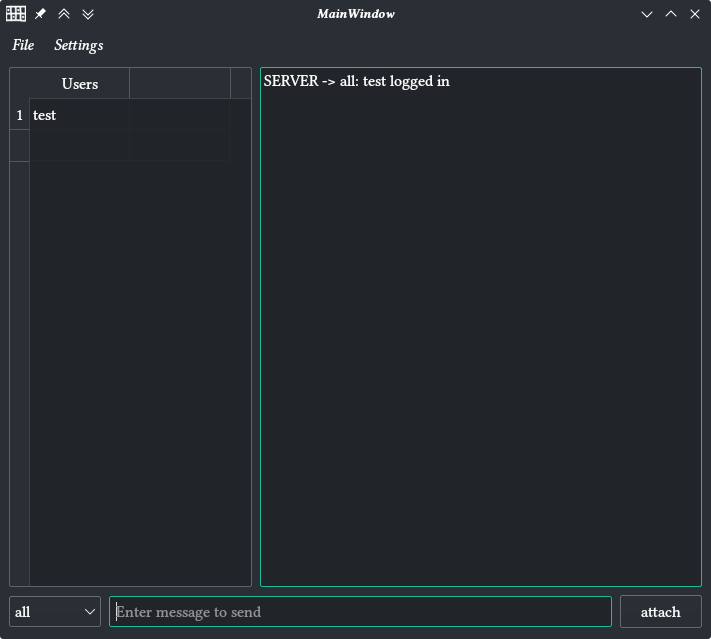
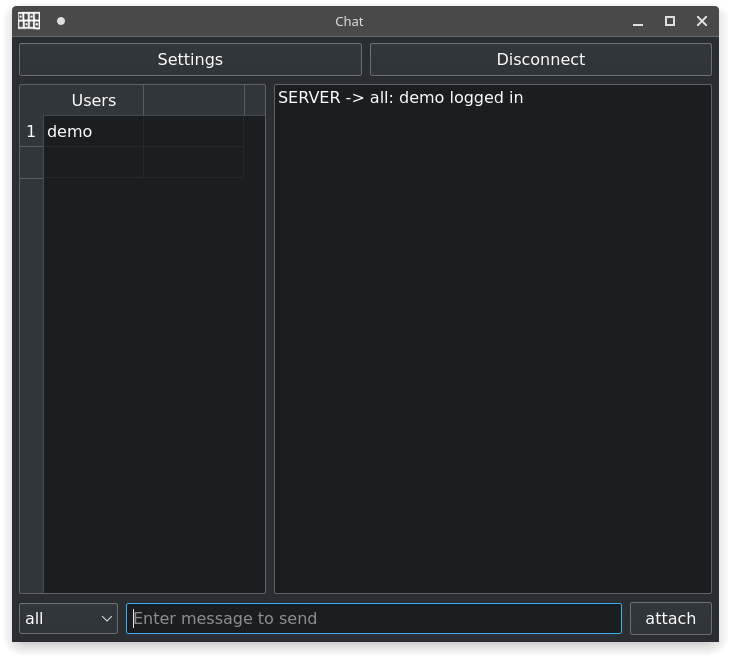
Update User Manual

Changed region(s): [[0.0, 0.0, 1.0, 1.0]]

diff --git a/description/manual.tex b/description/manual.tex
@@ -1,4 +1,4 @@
-\documentclass[a4paper,ngerman,headsepline]{scrreprt}
+\documentclass[a4paper,ngerman,headsepline, titlepage=firstiscover]{scrartcl}
 \KOMAoptions{fontsize=12pt}
 \KOMAoptions{headings=standardclasses}
 \KOMAoptions{DIV=13}
@@ -31,6 +31,7 @@
 \usepackage[dvipsnames]{xcolor}
 \usepackage{pgf,tikz}
 \usepackage{siunitx}
+\usepackage{listings}
 \sisetup{locale=DE,per-mode=symbol,output-decimal-marker={,},detect-weight}
 
 % PAGE LAYOUT
@@ -43,15 +44,14 @@
 \rohead{Alexander Lessacher, Laurenz Preindl, Simon Graber}
 \cohead{}
 \rofoot{Seite \thepage\ von \pageref{LastPage}}
-\cofoot{\raisebox{-2cm}{Vom \todaysname, dem \today}}
 
 \newcommand*\diff{\mathop{}\!\mathrm{d}}
 
 % BIBLIOGRAPHIE
 %\usepackage[imakeidx]{xindex} % oldindex
 \usepackage{makeidx}\makeindex
-\usepackage[backend=biber,style=authoryear,natbib=true,hyperref=true]{biblatex}
-\addbibresource{/home/ln/Dokumente/tex/literatur/main.bib}
+%\usepackage[backend=biber,style=authoryear,natbib=true,hyperref=true]{biblatex}
+%\addbibresource{/home/ln/Dokumente/tex/literatur/main.bib}
 
 \usepackage[hidelinks]{hyperref}
 \usepackage{marvosym}
@@ -64,6 +64,46 @@
   pdftitle={Dokumentation htl-tk-chat},pdfsubject={Software-Engineering}%
 }
 
+\hypersetup{%
+    colorlinks,
+    citecolor = {black!65!blue},
+    filecolor = black,
+    linkcolor = {black!50!blue},
+    urlcolor = blue
+}
+
+\definecolor{backcolour}{rgb}{0.95,0.95,0.92}
+\definecolor{codegray}{rgb}{0.5,0.5,0.5}
+\definecolor{background}{HTML}{EEEEEE}
+\definecolor{delim}{RGB}{20,105,176}
+\colorlet{numb}{magenta!60!black}
+\colorlet{punct}{red!60!black}
+\lstdefinestyle{simple}{
+    backgroundcolor=\color{backcolour},
+    commentstyle=\color{green},
+    keywordstyle=\color{red},
+    numberstyle=\tiny\color{codegray},
+    stringstyle=\color{purple},
+    basicstyle=\ttfamily,
+    breakatwhitespace=false,
+    breaklines=true,
+    captionpos=b,
+    keepspaces=true,
+    numbers=none,
+    showspaces=false,
+    showstringspaces=false,
+    showtabs=false,
+    tabsize=2,    
+    literate=%
+  {Ö}{{\"O}}1
+  {Ä}{{\"A}}1
+  {Ü}{{\"U}}1
+  {ß}{{\ss}}1
+  {ü}{{\"u}}1
+  {ä}{{\"a}}1
+  {ö}{{\"o}}1
+}
+
 \begin{document}
 
 %\subject{}
@@ -73,42 +113,198 @@
 
 \maketitle
 \tableofcontents
+\newpage
 
 \section{Einführung}
-Der \texttt{htl-tk-chat} ist eine Chat-Applikation mit Qt-User-Interface. Sie können sich damit mit einem Client zu einem Server verbinden und mit den Teilnehmern dort Nachrichten austauschen. Standardmäßig geschieht dies verschlüsselt (SSL/TLS), ihre Nachrichten sind also auf dem Weg zu den anderen Teilhemern \enquote{sicher}.
+Der \texttt{htl-tk-chat} ist eine Chat-Applikation mit Qt-User-Interface. Sie können sich damit mit einem Client zu einem Server verbinden und mit den Teilnehmern dort Nachrichten austauschen. Standardmäßig geschieht dies verschlüsselt (SSL/TLS), ihre Nachrichten sind also auf dem Weg zu den anderen Teilnehmern \enquote{sicher}. Bilder der Applikation in dieser Anleitung wurden mit einem Breeze Dark Theme aufgenommen. Darstellung bei Ihnen kann sich unterscheiden.
 
-\section{Start}
+\section{Abhängigkeiten}
+Der Client hat folgende Abhängigkeiten:
+\begin{itemize}
+ \item Python >= 3.6
+ \item PyQt5 >= 5.0
+ \item python-msgpack
+\end{itemize}
+
+\noindent Der Server hat folgende Abhängigkeiten:
+\begin{itemize}
+ \item Python >= 3.6
+ \item python-msgpack
+\end{itemize}
+
+\subsection{Installation}
+\subsubsection{Python}
+\paragraph{Windows} In Windows installieren Python Sie entweder über die \href{https://python.org}{Python} Webseite oder über winget mit folgendem Befehl:
+
+\begin{lstlisting}[style=simple]
+ winget install -e --id Python.Python
+\end{lstlisting}
+
+\paragraph{Debian:} In Debian basierenden Distributionen installieren Sie python über apt mit folgendem Befehl:
+
+\begin{lstlisting}[style=simple, language=Bash]
+ sudo apt install python3
+\end{lstlisting}
+
+\paragraph{ArchLinux:} In ArchLinux basierenden Distributionen installieren Sie python über pacman mit folgendem Befehl:
+
+\begin{lstlisting}[style=simple, language=Bash]
+ sudo pacman -Sy python
+\end{lstlisting}
+
+\subsubsection{PyQt5}
+\paragraph{Windows:} In Windows installieren Sie PyQt5 mit Hilfe von pip nachdem Sie python installiert haben, mit folgendem Befehl:
+\begin{lstlisting}[style=simple]
+ pip install PyQt5
+\end{lstlisting}
+
+\paragraph{Debian:} In Debian basierenden Distributionen installieren Sie PyQt5 auch mit Hilfe von pip mit folgendem Befehl.
+\begin{lstlisting}[style=simple]
+ pip install PyQt5
+\end{lstlisting}
+
+\paragraph{ArchLinux:} In ArchLinux basierenden Distributionen können Sie PyQt5 über den Standard Weg mittels pacman installieren. Geben Sie dafür einfach folgenden Befehl ein:
+\begin{lstlisting}[style=simple]
+ sudo pacman -Sy python-pyqt5
+\end{lstlisting}
+
+\subsubsection{python-msgpack}
+\paragraph{Windows:} In Windows installieren Sie python-msgpack mit Hilfe von pip nachdem Sie python installiert haben, mit folgendem Befehl:
+\begin{lstlisting}[style=simple]
+ pip install msgpack
+\end{lstlisting}
+
+\paragraph{Debian:} In Debian basierenden Distributionen installieren Sie python-msgpack auch mit Hilfe von pip mit folgendem Befehl.
+\begin{lstlisting}[style=simple]
+ pip install msgpack
+\end{lstlisting}
+
+\paragraph{ArchLinux:} In ArchLinux basierenden Distributionen können Sie python-msgpack über den Standard Weg mittels pacman installieren. Geben Sie dafür einfach folgenden Befehl ein:
+\begin{lstlisting}[style=simple]
+ sudo pacman -Sy python-msgpack
+\end{lstlisting}
+\newpage
+\section{Client}
+\subsection{Start}
 Es wird davon ausgegangen, dass Sie die Applikation als Client nutzen und ein bestehender Server bekannt und erreichbar ist.\\
-Zum Starten des Programms rufen sie unter \texttt{frontend/client.py} auf. Hierzu können sie die Date direkt aufrufen (\texttt{./frontend/client.py} oder dem Programm \texttt{python3} als Parameter übergeben. Hierzu verwenden sie den Befehl \texttt{python3 frontend/client.py}.
+Zum Starten des Programms rufen sie unter \texttt{frontend/client.py} auf. Hierzu können sie die Datei direkt aufrufen (\texttt{./frontend/client.py}) oder dem Programm \texttt{python3} als Parameter übergeben. Hierzu verwenden sie den Befehl \texttt{python3 frontend/client.py}.
 
-\begin{figure}[ht]\centering
+\begin{figure}[!h]\centering
 \includegraphics[width=\textwidth]{images/empty}
-\caption{Nun öffnet sich das Hauptfenster des Chats}
+\caption{Hauptfenster nach dem Start}
 \end{figure}
 
-\begin{figure}[ht]\centering
+\newpage
+
+\subsection{Konfiguration}
+Wenn Sie noch keine Konfiguration haben öffnet sich beim ersten Start automatisch ein Einstellungsfenster in dem Sie eine Konfiguration einstellen können. Die Felder von Links nach Rechts sind: Serveradresse (Die IP Adresse oder Hostname des Servers), Port (Port des Servers Standard: 9999), Username (Der Name mit dem Sie im Chat angezeigt werden). Es gibt ebenfalls eine Checkbox für SSL. Wenn die Checkbox angeklickt ist versucht der Client eine verschlüsselte Verbindung zum Server aufzubauen. Mit dem Button \enquote{Save Profile} können Sie Ihre Konfiguration speichern. Mit \enquote{Delete Profile} können Sie Ihre Konfiguration auch wieder löschen. \enquote{Load Profile} lädt die gespeicherte Konfiguration in die entsprechenden Felder.
+\begin{figure}[!h]\centering
 \includegraphics[width=\textwidth]{images/settings}
-\caption{Zusätzlich öffnet sich das Einstellungsfenster\label{fig:settings}}
+\caption{Einstellungsfenster\label{fig:settings}}
 \end{figure}\clearpage
-Wie in Abb. \ref{fig:settings} gezeigt, müssen Sie eine gültige Adresse eines \texttt{htl-tk-chat}-Servers in das dafür vorgesehene Feld eintragen. Verwenden Sie einen Benutzernamen Ihrer Wahl. Wenn der Server Ihrer Wahl SSL unterstützt, setzen sie die Checkbox \enquote{Use SSL}.
-Speichern Sie Ihre Daten mittels drücken des Buttons \enquote{Save Profile}. Um sich zum Server zu verbinden drücken Sie \enquote{Connect}. Nun können Sie das Einstellungsfenster schließen und zum Hauptfenster zurükkehren. (Siehe Abb. \ref{fig:alone})
+\newpage
 
-\begin{figure}[ht]\centering
+\subsection{Nachrichten  Schreiben}
+\noindent Nachdem Sie eingeloggt sind sehen Sie eine Nachricht vom Server. Links sehen Sie auch die aktuell verbunden Benutzer wie man in Abbildung \ref{fig:conversation} gut sehen kann. Um Nachrichten zu verfassen, tippen Sie den Text in die Eingabezeile am unteren Rand des Fensters ein und drücken die Enter-Taste. Um private Nachrichten zu versenden wählen Sie den Benutzer, an den Sie die Nachricht senden wollen. unten Links in der Combo Box aus.
+
+\begin{figure}[!h]\centering
 \includegraphics[width=\textwidth]{images/alone}
-\caption{Der Chat-Client ist nun verbunden, Sie können nun Nachrichten empfangen und versenden \label{fig:alone}}
+\caption{Login Nachricht \label{fig:alone}}
 \end{figure}
+\newpage
 
-Um Nachrichten zu verfassen, tippen Sie den Text in die Eingabezeile am unteren Rand des Fensters ein und drücken die Enter-Taste.% \LKeyEnter ging nicht ...
-
-\begin{figure}[ht]\centering
+\begin{figure}[!h]\centering
 \includegraphics[width=\textwidth]{images/conversation}
-\caption{Nun können Sie im DropDown-Menü in der linken unteren Ecke den Empfänger Ihrer Nachricht auswählen und mit Enter versenden. Empfangene Nachrichten werden Ihnen in der rechten Hälfte des Fensters angezeigt.\label{fig:conversation}}
+\caption{Konversation\label{fig:conversation}}
 \end{figure}
+\newpage
 
+\subsection{Bilder}
 
-\begin{figure}[ht]\centering
+Der \texttt{htl-tk-chat} unterstützt Bilder im Chat. Die Bilder werden als Thumbnail mit einer maximal Größen von 300 mal 300 Pixel angezeigt. Um ein Bild zu versenden drücken sie unten Rechts auf den \enquote{attach} Button. Danach öffnet sich ein File Dialog mit einem Filter für Bild Dateien. Wählen Sie die gewünschte Bild Datei aus um Sie zu versenden.
+\begin{figure}[!h]\centering
 \includegraphics[width=\textwidth]{images/attach-image}
-\caption{Sie können durch drücken des \texttt{attatch}-Buttons in der rechten unteren Ecke des Fensters eine Bilddatei anhängen, es öffnet sich ein FileChooser-Dialog des Betriebssystems und Sie können dort zu dem Bild Ihrer Wahl navigieren. Haben Sie das Bild ausgewählt wird es an den gewählten Empfänger versendet.\label{fig:attach-image}}
+\caption{Bild in Chat\label{fig:attach-image}}
 \end{figure}
+\newpage
+
+\subsection{Dateien}
+
+Der \texttt{htl-tk-chat} unterstützt auch das versenden von Dateien. Um eine Datei zu versenden verwenden Sie wie bei Bildern den \enquote{attach} Button unten Rechts. Danach öffnet sich ein File Dialog. Im File Dialog wählen Sie den Filter \enquote{All Files} aus um alle Dateien zu sehen. Danach wählen Sie eine Datei aus die kein Bild ist um sie zu versenden. Dateien werden im Chat wie eine normale Text Nachricht angezeigt, mit dem Unterschied, in der Nachricht steht \enquote{file: [Dateiname]}. Um die Datei herunterzuladen drücken Sie mit der Maus auf die Nachricht. Danach öffnet sich ein File Dialog zum speichern der Datei.
+\begin{figure}[!h]\centering
+\includegraphics[width=\textwidth]{images/file}
+\caption{Bild in Chat\label{fig:attach-file}}
+\end{figure}
+\newpage
+\section{Server}
+\subsection{Start}
+Zum Starten des Programms rufen sie unter \texttt{server/chat\textunderscore server.py} auf. Hierzu können sie die Datei direkt aufrufen (\texttt{./server/chat\textunderscore server.py}) oder dem Programm \texttt{python3} als Parameter übergeben. Hierzu verwenden sie den Befehl \texttt{python3 server/chat\textunderscore server.py}.
+
+\subsubsection{Autostart}
+Wenn Sie einen Chat Server betreiben wollen empfiehlt es sich diesen über ein Autostart System im Hintergrund zu starten. Wir empfehlen dazu die Verwendung von Systemd. Eine solche Systemd Service File kann folgendermaßen aussehen:
+\begin{lstlisting}[style=simple]
+[Unit]
+Description=htl-tk-chat Server
+After=network.target
+
+[Service]
+Type=simple
+User=root
+Group=htl-tk-chat
+WorkingDirectory=/path/to/server/directory
+ExecStart=/usr/bin/python3 /path/to/chat_server.py
+Restart=on-failure
+
+[Install]
+WantedBy=multi-user.target
+\end{lstlisting}
+
+\subsection{Konfiguration}
+Wenn Sie den Server starten benötigen Sie eine Konfigurationsdatei namens \enquote{server.conf} im selben Verzeichnis wie die \enquote{chat\textunderscore server.py} Datei. Wenn diese Datei nicht vorhanden ist erstellt der Server diese mit einer Standardkonfiguration. Diese Konfiguration sieht folgendermaßen aus:
+\begin{lstlisting}[style=simple]
+[SERVER]
+listen_address = 0.0.0.0
+listen_port = 9999
+
+[SSL]
+enable_ssl = False
+keyfile = key.pem
+certfile = cert.pem
+\end{lstlisting}
+Wenn Sie SSL Verschlüsselung für die Übertragung aktivieren wollen müssen Sie die \enquote{enable\textunderscore ssl} Konfiguration auf \texttt{True} bzw. 1 stellen. Außerdem müssen Sie den Schlüssel und das Zertifikat für die SSL Verschlüsselung angeben.
+\subsection{Logging}
+Der Server loggt die aktuelle Programmausführung mit. Die Logging Nachrichten sehen Sie im Terminal nachdem Sie den Chat Server gestartet haben und in der Datei \enquote{chatserver.log} im selben Verzeichnis wie \enquote{chat\textunderscore server.py}. Wenn Sie die Ausgabe der Log Nachrichten bearbeiten wollen können sie das in der Datei \enquote{logger.conf} im Verzeichnis des Chat Servers. Die Standardkonfiguration sieht folgendermaßen aus:
+\begin{lstlisting}[style=simple]
+[loggers]
+keys=root
+
+[handlers]
+keys=term,file
+
+[formatters]
+keys=iso
+
+[logger_root]
+level=NOTSET
+handlers=term,file
+
+[handler_term]
+class=StreamHandler
+level=NOTSET
+formatter=iso
+args=(sys.stdout,)
+
+[handler_file]
+class=FileHandler
+level=NOTSET
+formatter=iso
+args=("./chatserver.log", "w")
+
+[formatter_iso]
+class=logging.Formatter
+format=%(asctime)s %(levelname)s %(message)s
+datefmt=%Y-%m-%dT%H:%M:%S%z 
+\end{lstlisting}
+Für mehr Information zur Konfiguration der Log Nachricht sehen Sie \href{https://docs.python.org/3/library/logging.config.html#configuration-file-format}{hier}.
 
 \end{document}

diff --git a/frontend/settingswindow.py b/frontend/settingswindow.py
@@ -14,10 +14,13 @@ from PyQt5 import QtCore, QtGui, QtWidgets
 class Ui_SettingsWindow(object):
     def setupUi(self, SettingsWindow):
         SettingsWindow.setObjectName("SettingsWindow")
-        SettingsWindow.resize(554, 226)
+        SettingsWindow.resize(554, 218)
         font = QtGui.QFont()
         font.setPointSize(12)
         SettingsWindow.setFont(font)
+        icon = QtGui.QIcon()
+        icon.addPixmap(QtGui.QPixmap("ui_files/icon.png"), QtGui.QIcon.Normal, QtGui.QIcon.Off)
+        SettingsWindow.setWindowIcon(icon)
         self.centralWidget = QtWidgets.QWidget(SettingsWindow)
         self.centralWidget.setObjectName("centralWidget")
         self.gridLayout = QtWidgets.QGridLayout(self.centralWidget)

diff --git a/frontend/mainwindow.py b/frontend/mainwindow.py
@@ -114,7 +114,7 @@ class Ui_MainWindow(object):
 
     def retranslateUi(self, MainWindow):
         _translate = QtCore.QCoreApplication.translate
-        MainWindow.setWindowTitle(_translate("MainWindow", "MainWindow"))
+        MainWindow.setWindowTitle(_translate("MainWindow", "Chat"))
         self.InputBar.setToolTip(_translate("MainWindow", "Enter Text here to send"))
         self.InputBar.setPlaceholderText(_translate("MainWindow", "Enter message to send"))
         self.addFileButton.setText(_translate("MainWindow", "attach"))

diff --git a/README.md b/README.md
@@ -2,8 +2,10 @@
 Watch the development progress at https://gitea.escpe.net/cc69222/htl-tk-chat
 
 If you are seeing this repo on Github note that this is only a mirror.
-# Build documentation
-To build the documentation run:
+# Documentation
+For the User Manual (Only in German) see [here](./decription/manual.pdf)
+
+To build the Code documentation run:
 
 ```bash
 make doc
@@ -15,33 +17,3 @@ For lazy people or Windows folks, a precompiled version of the documentation can
 # Project description
 A Server and client for a self-written chat application.
 The client interface uses Qt 5, the server uses sockets and msgpack.
-## Planned features:
-- Selecting users to send messages to ("Public", "Private")
-- Notify users when new messages are available (for them)
-- database to store message history
-- attachments (files)
-- embedded pictures in chat
-- authentification / identification of users via username
-- encryption ? (GPG) or SSL -> Let's Encrypt for server
-
-# What we use, what we do
-- sockets, tcp streams
-- ~~JSON for message content and metadata~~
-- msgpack for message content and metadata, because it is faster and encodes in binary instead of strings.
-- Server, self written, hosted at home (port forwarding)
-- Database server-side for message-history, users, authentification
-- For the Database SQLite, cause it is a lightweight disk-based database and doesn't require a separate server process. Also the sqlite3 python module is in [The Python Standard Library](https://docs.python.org/3/library/).
-- We don't care about networking failures, we let tcp handle that.
-- Interface in ~~tkinter~~ or **Qt 5** (via PyQt5)
-- Doxygen for documentation
-
-# Rules
-- Commit messages should make sense
-- If you're planning to implement a new feature, open an issue with the correct label
-- Working on the development branch and after the one week sprint make a pull request, to merge it back to the master.
-- Write sensible reviews and document your Code
-
-# Milestone 1
-- Server is running and accessible from the internet
-- Clients send messages to Server, the Server broadcasts the message to all Clients.
-
